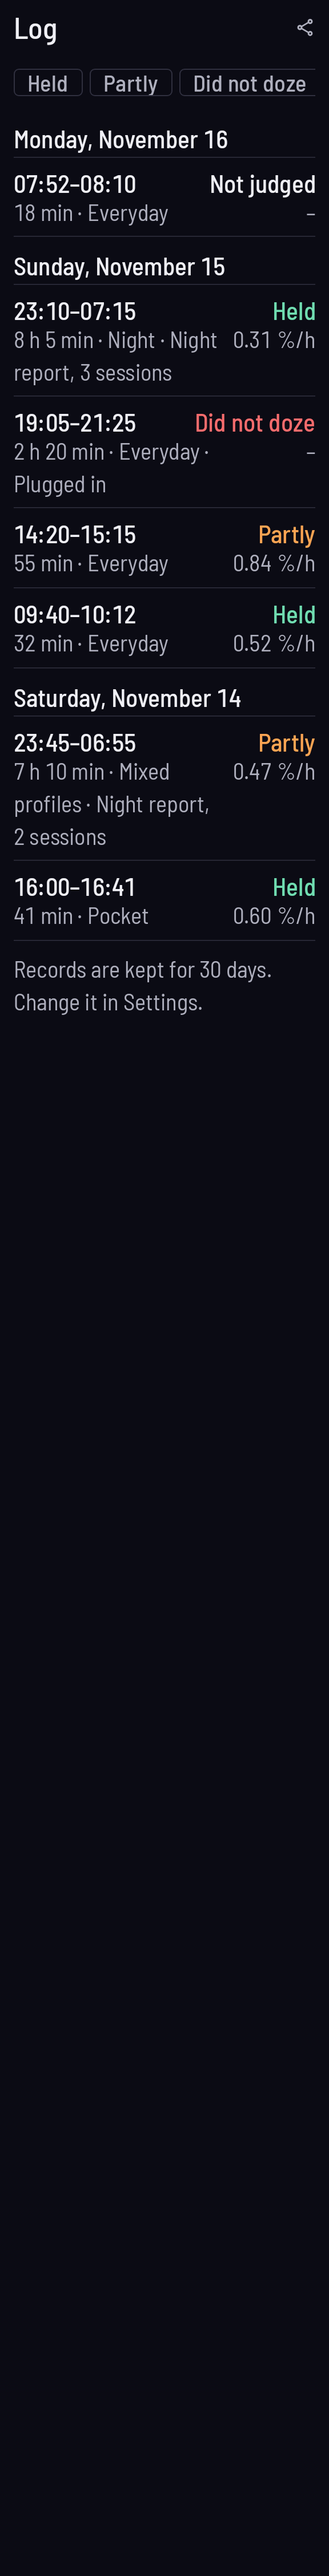
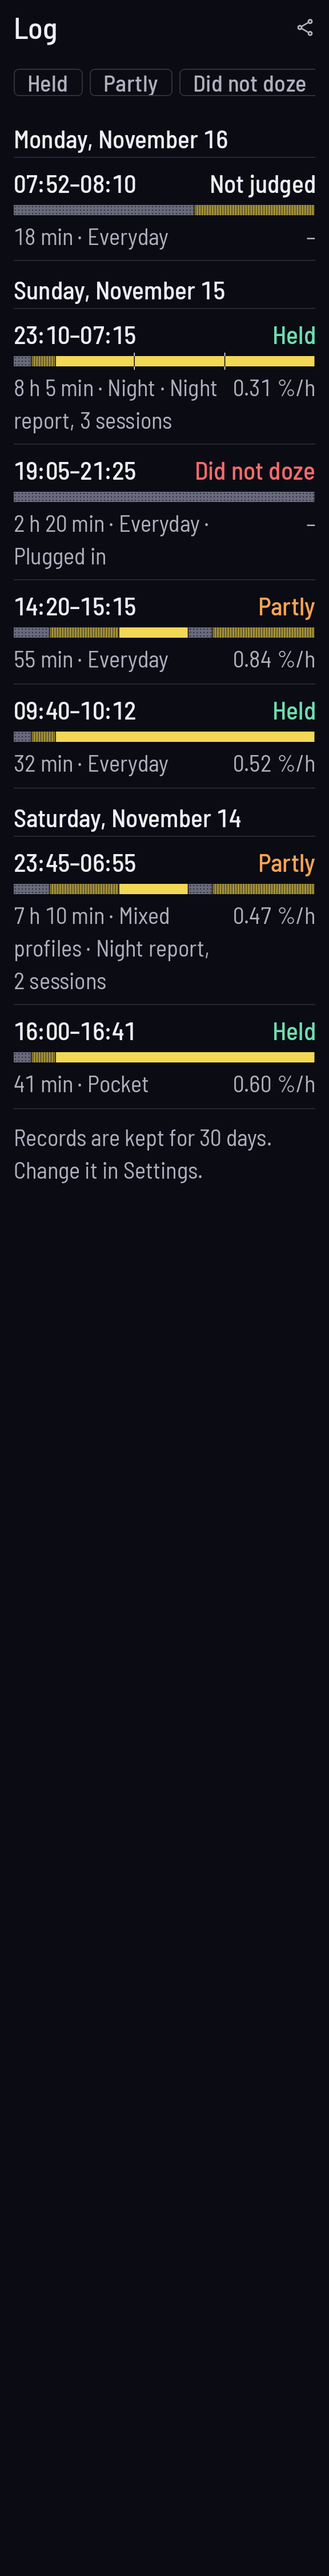
feat(ui): each Log row shows its session's strip
The report's fills, over the row's own span, built from the session rows
and one query of their transitions; a night also shows its wake-ups. The
strip is not spoken: the words around it say the same. Closes the audit's
P2 on Log rows (ADR 0028 promised the strip in Log).

Changed region(s): [[0.0312, 0.0622, 0.9688, 0.4667]]

diff --git a/feature/log/src/test/kotlin/io/github/akane599/enforcedoze/feature/log/LogFixtures.kt b/feature/log/src/test/kotlin/io/github/akane599/enforcedoze/feature/log/LogFixtures.kt
@@ -1,6 +1,9 @@
 // SPDX-License-Identifier: GPL-3.0-or-later
 package io.github.akane599.enforcedoze.feature.log
 
+import io.github.akane599.enforcedoze.design.DozeFill
+import io.github.akane599.enforcedoze.design.StripModel
+import io.github.akane599.enforcedoze.design.StripSegment
 import io.github.akane599.enforcedoze.ui.NoticeKind
 import io.github.akane599.enforcedoze.ui.StateNotice
 import io.github.akane599.enforcedoze.ui.VerdictWord
@@ -22,7 +25,48 @@ object LogFixtures {
         profile: String? = "everyday",
         plugged: Boolean = false,
         sessions: Int = 1,
-    ) = LogEntry(id++, start, start + minutes * 60_000, verdict, drain, plugged, profile, night = sessions > 1 || minutes >= 240, sessions)
+    ) = LogEntry(
+        id++,
+        start,
+        start + minutes * 60_000,
+        verdict,
+        drain,
+        plugged,
+        profile,
+        night = sessions > 1 || minutes >= 240,
+        sessions,
+        strip = strip(start, minutes, verdict, plugged),
+    )
+
+    /** An illustrative shape per verdict: awake, then light, then deep with maintenance windows; a charger run stays awake. */
+    private fun strip(start: Long, minutes: Long, verdict: VerdictWord, plugged: Boolean): StripModel {
+        val end = start + minutes * 60_000
+        fun at(share: Double) = start + (minutes * 60_000 * share).toLong()
+        val segments = when {
+            plugged || verdict == VerdictWord.DID_NOT_DOZE -> listOf(StripSegment(DozeFill.ACTIVE, start, end))
+
+            verdict == VerdictWord.NOT_JUDGED -> listOf(
+                StripSegment(DozeFill.ACTIVE, start, at(0.6)),
+                StripSegment(DozeFill.LIGHT, at(0.6), end),
+            )
+
+            verdict == VerdictWord.PARTLY -> listOf(
+                StripSegment(DozeFill.ACTIVE, start, at(0.12)),
+                StripSegment(DozeFill.LIGHT, at(0.12), at(0.35)),
+                StripSegment(DozeFill.DEEP, at(0.35), at(0.58)),
+                StripSegment(DozeFill.ACTIVE, at(0.58), at(0.66)),
+                StripSegment(DozeFill.LIGHT, at(0.66), end),
+            )
+
+            else -> listOf(
+                StripSegment(DozeFill.ACTIVE, start, at(0.06)),
+                StripSegment(DozeFill.LIGHT, at(0.06), at(0.14)),
+                StripSegment(DozeFill.DEEP, at(0.14), end),
+            )
+        }
+        val windows = if (verdict == VerdictWord.HELD && minutes >= 120) listOf(at(0.4), at(0.7)) else emptyList()
+        return StripModel(start, end, segments, maintenance = windows)
+    }
 
     val state = LogState(
         entries = listOf(

diff --git a/app/src/main/kotlin/io/github/akane599/enforcedoze/app/ui/AppLogSource.kt b/app/src/main/kotlin/io/github/akane599/enforcedoze/app/ui/AppLogSource.kt
@@ -1,6 +1,7 @@
 // SPDX-License-Identifier: GPL-3.0-or-later
 package io.github.akane599.enforcedoze.app.ui
 
+import io.github.akane599.enforcedoze.data.TransitionRow
 import io.github.akane599.enforcedoze.data.NightReports
 import io.github.akane599.enforcedoze.data.NightRow
 import io.github.akane599.enforcedoze.data.SessionRow
@@ -29,14 +30,19 @@ internal class AppLogSource(private val services: AppServices) : LogSource {
             val from = now - Duration.ofDays(days.toLong()).toMillis()
             val sessions = services.graph.sessions.sessionsBetween(from, now)
             val nights = services.graph.sessions.nightsBetween(from, now)
-            LogState(entries(sessions, nights), names, days, notices)
+            val transitions = services.graph.sessions.transitionsBetween(from, now).groupBy { it.sessionId }
+            LogState(entries(sessions, nights, transitions), names, days, notices)
         }
 
     override fun seen(noticeId: String) = services.prefs.seen(noticeId)
 
     companion object {
         /** Newest first. A session inside a stored night is listed only through that night's row. */
-        fun entries(sessions: List<SessionRow>, nights: List<NightRow>): List<LogEntry> {
+        fun entries(
+            sessions: List<SessionRow>,
+            nights: List<NightRow>,
+            transitions: Map<Long, List<TransitionRow>> = emptyMap(),
+        ): List<LogEntry> {
             val nightRows = nights.map { night ->
                 val inside = sessions.filter { it.start >= night.start && it.end <= night.end }
                 LogEntry(
@@ -50,6 +56,7 @@ internal class AppLogSource(private val services: AppServices) : LogSource {
                     profileId = night.profileId,
                     night = true,
                     sessions = night.sessionCount,
+                    strip = ReportMapping.logStrip(inside, transitions, night.start, night.end, night = true),
                 )
             }
             val single = sessions.filter { session -> nights.none { session.start >= it.start && session.end <= it.end } }.map {
@@ -61,6 +68,7 @@ internal class AppLogSource(private val services: AppServices) : LogSource {
                     drainPerHour = it.drainPerHour,
                     plugged = !StoredNights.unplugged(it),
                     profileId = it.profileId,
+                    strip = ReportMapping.logStrip(listOf(it), transitions, it.start, it.end, night = false),
                 )
             }
             return (nightRows + single).sortedByDescending { it.start }

diff --git a/feature/log/src/main/kotlin/io/github/akane599/enforcedoze/feature/log/LogScreen.kt b/feature/log/src/main/kotlin/io/github/akane599/enforcedoze/feature/log/LogScreen.kt
@@ -42,6 +42,7 @@ import androidx.compose.ui.Modifier
 import androidx.compose.ui.res.pluralStringResource
 import androidx.compose.ui.res.stringResource
 import androidx.compose.ui.semantics.Role
+import androidx.compose.ui.semantics.clearAndSetSemantics
 import androidx.compose.ui.semantics.heading
 import androidx.compose.ui.semantics.semantics
 import androidx.compose.ui.text.style.TextAlign
@@ -52,6 +53,7 @@ import io.github.akane599.enforcedoze.design.Rule
 import io.github.akane599.enforcedoze.design.ScreenColumn
 import io.github.akane599.enforcedoze.design.Sizes
 import io.github.akane599.enforcedoze.design.Space
+import io.github.akane599.enforcedoze.design.TimelineStrip
 import io.github.akane599.enforcedoze.design.color
 import io.github.akane599.enforcedoze.design.rememberFormats
 import io.github.akane599.enforcedoze.ui.StateNotice
@@ -174,6 +176,19 @@ private fun LogLine(entry: LogEntry, state: LogState, formats: Formats, onClick:
                 color = entry.verdict.tone.color(),
                 textAlign = TextAlign.End,
                 modifier = Modifier.padding(start = Space.m),
+            )
+        }
+        // The shape of the session at a glance (ADR 0028); the words above and below already say it, so it is not spoken.
+        entry.strip?.takeIf { it.segments.isNotEmpty() }?.let { strip ->
+            TimelineStrip(
+                strip,
+                description = "",
+                modifier = Modifier
+                    .fillMaxWidth()
+                    .padding(vertical = Space.xs)
+                    .height(Sizes.stripRow + Space.xs)
+                    .clearAndSetSemantics { },
+                animate = false,
             )
         }
         Row(verticalAlignment = Alignment.Top) {

diff --git a/core/data/src/main/kotlin/io/github/akane599/enforcedoze/data/Sessions.kt b/core/data/src/main/kotlin/io/github/akane599/enforcedoze/data/Sessions.kt
@@ -114,6 +114,8 @@ public data class SessionRecord(
     val snapshots: List<SensorSnapshotRow>,
 )
 
+// A Room DAO is one function per query; splitting it would split one table's access across classes.
+@Suppress("TooManyFunctions")
 @Dao
 public abstract class SessionDao {
     @Insert
@@ -201,6 +203,13 @@ public abstract class SessionDao {
 
     @Query("SELECT * FROM night WHERE id = :id")
     public abstract suspend fun night(id: Long): NightRow?
+
+    /** The transitions of every session that overlaps [fromMillis]..[toMillis], in one query: the log's strips. */
+    @Query(
+        "SELECT transition.* FROM transition JOIN session ON transition.sessionId = session.id " +
+            "WHERE session.`end` >= :fromMillis AND session.start <= :toMillis ORDER BY transition.time, transition.id",
+    )
+    public abstract suspend fun transitionsBetween(fromMillis: Long, toMillis: Long): List<TransitionRow>
 
     /** Sessions that overlap [fromMillis]..[toMillis], oldest first: an export's range (SPEC 8.7). */
     @Query("SELECT * FROM session WHERE `end` >= :fromMillis AND start <= :toMillis ORDER BY start, id")

diff --git a/app/src/main/kotlin/io/github/akane599/enforcedoze/app/ui/ReportMapping.kt b/app/src/main/kotlin/io/github/akane599/enforcedoze/app/ui/ReportMapping.kt
@@ -186,6 +186,21 @@ internal object ReportMapping {
      * Not judged: the report never shows a verdict the row does not hold. (`:core:ui` and `:core:evidence` have no
      * mapping from the stored string, since only `:app` sees the rows.)
      */
+    /**
+     * A log row's strip: the report's fills from the session rows and their transitions, over the row's own span. A
+     * night also shows its wake-ups; wakers and sensor snapshots are not needed for the strip.
+     */
+    fun logStrip(
+        sessions: List<SessionRow>,
+        transitions: Map<Long, List<TransitionRow>>,
+        start: Long,
+        end: Long,
+        night: Boolean,
+    ): StripModel {
+        val tracks = sessions.sortedBy { it.start }.map { Track(SessionRecord(it, transitions[it.id].orEmpty(), emptyList(), emptyList())) }
+        return strip(tracks, if (night) StoredNights.wakes(tracks.map { it.row }) else emptyList(), start, end)
+    }
+
     fun verdict(stored: String?): VerdictWord = when (stored) {
         EvidenceRows.HELD -> VerdictWord.HELD
         EvidenceRows.PARTLY -> VerdictWord.PARTLY

diff --git a/feature/log/src/main/kotlin/io/github/akane599/enforcedoze/feature/log/LogState.kt b/feature/log/src/main/kotlin/io/github/akane599/enforcedoze/feature/log/LogState.kt
@@ -2,6 +2,7 @@
 package io.github.akane599.enforcedoze.feature.log
 
 import androidx.compose.runtime.Immutable
+import io.github.akane599.enforcedoze.design.StripModel
 import io.github.akane599.enforcedoze.ui.StateNotice
 import io.github.akane599.enforcedoze.ui.VerdictWord
 import kotlinx.coroutines.flow.Flow
@@ -24,6 +25,8 @@ public data class LogEntry(
     val profileId: String?,
     val night: Boolean = false,
     val sessions: Int = 1,
+    /** The session's or night's shape, as in its report; null when nothing was recorded to draw. */
+    val strip: StripModel? = null,
 )
 
 /** Everything the log shows, mapped by the app from the evidence log, newest first. */

diff --git a/docs/progress.md b/docs/progress.md
@@ -315,8 +315,8 @@ Carried over to P5:
     and a smoke run under Shizuku (grants, tiles, the sensors confirmation) on the API 37 emulator;
   - still open from the audit (P2):
     - two panes on a tablet exist only for Log/Report and Profiles;
-    - Log rows have no strip;
-    - some feature screens still hold sizes that belong in `:core:design`.
+    - some feature screens still hold sizes that belong in `:core:design`;
+  - Log rows now carry their session's or night's strip, from one query of transitions (ADR 0028);
 - Joined nights (ADR 0031, owner's rule of 2026-11-08):
   - one rule in `Nights`, used by the recorder, Signals and the feedback loop;
   - night rows with their own figures;
